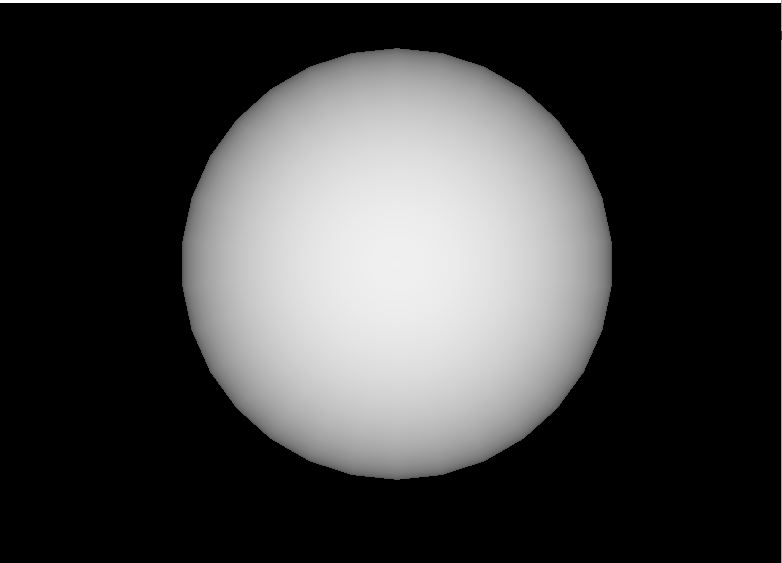
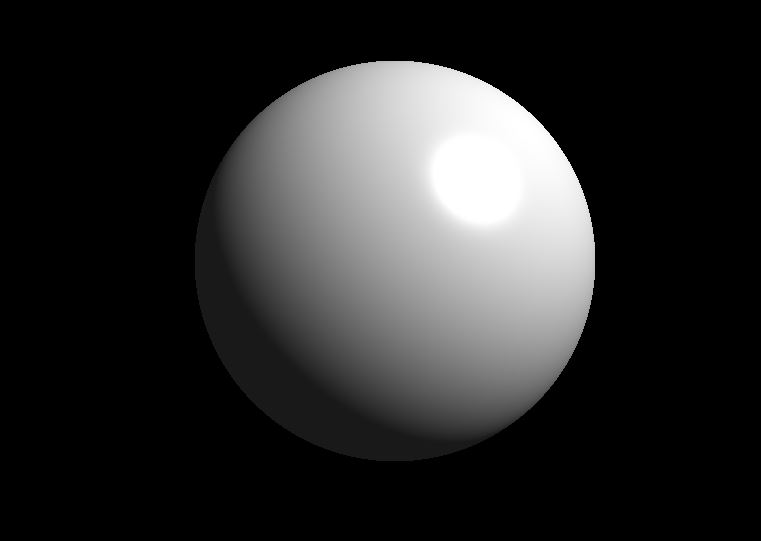
Static Sphere Upload

Changed region(s): [[0.2116, 0.0887, 0.7858, 0.8577], [0.0, 0.0, 1.0, 1.0]]

diff --git a/AdityaAhale_RTR_SHADER/RTRAssignments/OpenGL/Windows/FixedFunctionPipeline/53_StaticSphereLights/MaterialSphereLight.cpp b/AdityaAhale_RTR_SHADER/RTRAssignments/OpenGL/Windows/FixedFunctionPipeline/53_StaticSphereLights/MaterialSphereLight.cpp
@@ -10,15 +10,15 @@
 #define WIN_HEIGHT 600
 
 bool bLight = false;
-GLfloat LightAmbient[] = { 0.5f,0.5f,0.5f,1.0f };
-GLfloat LightDiffuse[] = { 1.0f,1.0f,1.0f,1.0f };
-GLfloat LightPosition[] = { 0.0f,0.0f,2.0f,1.0f };
-GLfloat LightSpecular[] = { 100.0f,100.0f,100.0f,100.0f };
-//GLfloat LightSpecular[] = { 1.0f,1.0f,1.0f,1.0f };
+GLfloat LightAmbient[] = { 0.0f,0.0f,0.0f,1.0f };
+GLfloat LightDiffuse[] = { 0.9f,0.9f,0.9f,0.9f };
+GLfloat LightPosition[] = { 10.0f,10.0f,10.0f,1.0f };
+//GLfloat LightSpecular[] = { 100.0f,100.0f,100.0f,100.0f };
+GLfloat LightSpecular[] = { 1.0f,1.0f,1.0f,1.0f };
 
 GLfloat MaterialAmbient[] = { 0.5f,0.5f,0.5f,1.0f };
 GLfloat MaterialDiffuse[] = { 1.0f,1.0f,1.0f,1.0f };
-GLfloat MaterialShininess[] = { 128.0f };
+GLfloat MaterialShininess[] = { 300.0f };
 GLfloat MaterialSpecular[] = { 1.0f,1.0f,1.0f,1.0f };
 
 
@@ -292,10 +292,10 @@ int initialize(void)
 	glLightfv(GL_LIGHT1, GL_POSITION, LightPosition);
 	glLightfv(GL_LIGHT1, GL_SPECULAR, LightSpecular);
 	
-	glMaterialfv(GL_LIGHT1, GL_AMBIENT, MaterialAmbient);
-	glMaterialfv(GL_LIGHT1, GL_DIFFUSE, MaterialDiffuse);
-	glMaterialfv(GL_LIGHT1, GL_POSITION, MaterialShininess);
-	glLightfv(GL_LIGHT1, GL_SPECULAR, MaterialSpecular);
+	glMaterialfv(GL_FRONT, GL_AMBIENT, MaterialAmbient);
+	glMaterialfv(GL_FRONT, GL_DIFFUSE, MaterialDiffuse);
+	glMaterialfv(GL_FRONT, GL_SHININESS, MaterialShininess);
+	glMaterialfv(GL_FRONT, GL_SPECULAR, MaterialSpecular);
 
 	glEnable(GL_LIGHT1);
 
@@ -310,10 +310,10 @@ void display(void)
 
 	glLoadIdentity();
 
-	glTranslatef(0.0f, 0.0f, -0.70f);
+	glTranslatef(0.0f, 0.0f, -0.75f);
 	glPolygonMode(GL_FRONT_AND_BACK, GL_FILL);
 	quadric = gluNewQuadric();
-	gluSphere(quadric, 0.2, 30, 30);
+	gluSphere(quadric, 0.2, 500, 500);
 
 	SwapBuffers(ghdc);
 }
